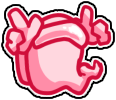
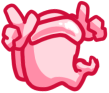
Add Exe Torment & Phantom Spook buttons
also fixes bugs that make it so only the host can actually utilize this, so all clients can haunt/torment/spook without issues

diff --git a/TownOfUs/Events/Neutral/ExecutionerEvents.cs b/TownOfUs/Events/Neutral/ExecutionerEvents.cs
@@ -7,12 +7,11 @@ using MiraAPI.Events.Vanilla.Player;
 using MiraAPI.GameOptions;
 using MiraAPI.Hud;
 using MiraAPI.Modifiers;
-using MiraAPI.Networking;
 using MiraAPI.Roles;
 using MiraAPI.Utilities;
+using TownOfUs.Buttons.Neutral;
 using TownOfUs.Modifiers;
 using TownOfUs.Modifiers.Neutral;
-using TownOfUs.Modules;
 using TownOfUs.Options.Roles.Neutral;
 using TownOfUs.Roles.Neutral;
 using TownOfUs.Utilities;
@@ -25,57 +24,22 @@ public static class ExecutionerEvents
     [RegisterEvent]
     public static void PlayerDeathEventHandler(PlayerDeathEvent @event)
     {
-        CustomRoleUtils.GetActiveRolesOfType<ExecutionerRole>().Do(x => x.CheckTargetDeath(@event.Player));
-
-        if (@event.DeathReason != DeathReason.Exile)
+        if (@event.DeathReason is DeathReason.Exile)
         {
-            return;
-        }
-        
-        if (!@event.Player.TryGetModifier<ExecutionerTargetModifier>(out var exeMod))
-        {
-            return;
-        }
-        
-        var exe = GameData.Instance.GetPlayerById(exeMod.OwnerId).Object;
-        if (exe != null && !exe.HasDied() && exe.Data.Role is ExecutionerRole exeRole)
-        {
-            exeRole.TargetVoted = true;
-        }
-    }
-    [RegisterEvent]
-    public static void AfterMurderEventHandler(AfterMurderEvent @event)
-    {
-        CustomRoleUtils.GetActiveRolesOfType<ExecutionerRole>().Do(x => x.CheckTargetDeath(@event.Target));
-
-        var role = @event.Source.Data.Role;
-        if (@event.Source.HasDied())
-        {
-            role = @event.Source.GetRoleWhenAlive();
-        }
-
-        if (role is ExecutionerRole exe && exe.TargetVoted &&
-            OptionGroupSingleton<ExecutionerOptions>.Instance.ExeWin is ExeWinOptions.Torments)
-        {
-            if (exe.Player.AmOwner)
+            if (!@event.Player.TryGetModifier<ExecutionerTargetModifier>(out var exeMod))
             {
-                PlayerControl.LocalPlayer.RpcPlayerExile();
-                var notif1 = Helpers.CreateAndShowNotification(
-                    $"<b>You have successfully won as the {TownOfUsColors.Executioner.ToTextColor()}Executioner</color>, as your target was exiled!</b>",
-                    Color.white, spr: TouRoleIcons.Executioner.LoadAsset());
-
-                notif1.Text.SetOutlineThickness(0.35f);
-                notif1.transform.localPosition = new Vector3(0f, 1f, -20f);
+                return;
             }
-            else
+
+            var exe = GameData.Instance.GetPlayerById(exeMod.OwnerId).Object;
+            if (exe != null && !exe.HasDied() && exe.Data.Role is ExecutionerRole exeRole)
             {
-                var notif1 = Helpers.CreateAndShowNotification(
-                    $"<b>The {TownOfUsColors.Executioner.ToTextColor()}Executioner</color>, {exe.Player.Data.PlayerName}, has successfully won, as their target was exiled!</b>",
-                    Color.white, spr: TouRoleIcons.Executioner.LoadAsset());
-
-                notif1.Text.SetOutlineThickness(0.35f);
-                notif1.transform.localPosition = new Vector3(0f, 1f, -20f);
+                exeRole.TargetVoted = true;
             }
+        }
+        else
+        {
+            CustomRoleUtils.GetActiveRolesOfType<ExecutionerRole>().Do(x => x.CheckTargetDeath(@event.Player));
         }
     }
 
@@ -104,43 +68,18 @@ public static class ExecutionerEvents
             exe.TargetVoted = true;
             if (exe.Player.AmOwner)
             {
-                if (OptionGroupSingleton<ExecutionerOptions>.Instance.ExeWin is ExeWinOptions.Torments)
-                {
-                    var voters = exe.Voters.ToArray();
-                    Func<PlayerControl, bool> _playerMatch = plr =>
-                        plr != exe.Target && plr != exe.Player && voters.Contains(plr.PlayerId) && !plr.HasDied() &&
-                        !plr.HasModifier<InvulnerabilityModifier>();
+                var notif1 = Helpers.CreateAndShowNotification(
+                    $"<b>You have successfully won as the {TownOfUsColors.Executioner.ToTextColor()}Executioner</color>, as your target was exiled!</b>",
+                    Color.white, spr: TouRoleIcons.Executioner.LoadAsset());
 
-                    var killMenu = CustomPlayerMenu.Create();
-                    killMenu.transform.FindChild("PhoneUI").GetChild(0).GetComponent<SpriteRenderer>().material =
-                        PlayerControl.LocalPlayer.cosmetics.currentBodySprite.BodySprite.material;
-                    killMenu.transform.FindChild("PhoneUI").GetChild(1).GetComponent<SpriteRenderer>().material =
-                        PlayerControl.LocalPlayer.cosmetics.currentBodySprite.BodySprite.material;
-                    killMenu.Begin(
-                        _playerMatch,
-                        plr =>
-                        {
-                            killMenu.ForceClose();
+                notif1.Text.SetOutlineThickness(0.35f);
+                notif1.transform.localPosition = new Vector3(0f, 1f, -20f);
 
-                            if (plr != null)
-                            {
-                                PlayerControl.LocalPlayer.RpcCustomMurder(plr, teleportMurderer: false);
-                            }
-                        });
-                }
-                else
-                {
-                    var notif1 = Helpers.CreateAndShowNotification(
-                        $"<b>You have successfully won as the {TownOfUsColors.Executioner.ToTextColor()}Executioner</color>, as your target was exiled!</b>",
-                        Color.white, spr: TouRoleIcons.Executioner.LoadAsset());
-
-                    notif1.Text.SetOutlineThickness(0.35f);
-                    notif1.transform.localPosition = new Vector3(0f, 1f, -20f);
-                }
-
+                CustomButtonSingleton<ExeTormentButton>.Instance.SetActive(true, exe);
                 PlayerControl.LocalPlayer.RpcPlayerExile();
+                DeathHandlerModifier.RpcUpdateDeathHandler(PlayerControl.LocalPlayer, "Victorious", DeathEventHandlers.CurrentRound, DeathHandlerOverride.SetFalse, lockInfo: DeathHandlerOverride.SetTrue);
             }
-            else if (OptionGroupSingleton<ExecutionerOptions>.Instance.ExeWin is ExeWinOptions.Nothing)
+            else
             {
                 var notif1 = Helpers.CreateAndShowNotification(
                     $"<b>The {TownOfUsColors.Executioner.ToTextColor()}Executioner</color>, {exe.Player.Data.PlayerName}, has successfully won, as their target was exiled!</b>",
@@ -187,6 +126,24 @@ public static class ExecutionerEvents
             if (!PlayerControl.LocalPlayer.IsHost())
             {
                 exeRole.TargetVoted = true;
+            }
+            
+            if (exe.AmOwner && OptionGroupSingleton<ExecutionerOptions>.Instance.ExeWin is ExeWinOptions.Torments)
+            {
+                var allVoters = PlayerControl.AllPlayerControls.ToArray()
+                    .Where(x => exeRole.Voters.Contains(x.PlayerId) && !x.AmOwner);
+                
+                if (!allVoters.Any())
+                {
+                    return;
+                }
+
+                foreach (var player in allVoters)
+                {
+                    player.AddModifier<MisfortuneTargetModifier>();
+                }
+
+                CustomButtonSingleton<ExeTormentButton>.Instance.Show = true;
             }
         }
     }

diff --git a/TownOfUs/Roles/Neutral/PhantomRole.cs b/TownOfUs/Roles/Neutral/PhantomRole.cs
@@ -4,12 +4,12 @@ using Il2CppInterop.Runtime.Attributes;
 using MiraAPI.GameOptions;
 using MiraAPI.Hud;
 using MiraAPI.Modifiers;
-using MiraAPI.Networking;
 using MiraAPI.Patches.Stubs;
 using MiraAPI.Roles;
 using MiraAPI.Utilities;
 using Reactor.Utilities;
-using TownOfUs.Modifiers;
+using TownOfUs.Buttons.Neutral;
+using TownOfUs.Modifiers.Neutral;
 using TownOfUs.Modules.Wiki;
 using TownOfUs.Options.Roles.Neutral;
 using TownOfUs.Patches;
@@ -238,23 +238,21 @@ public sealed class PhantomTouRole(IntPtr cppPtr)
             return;
         }
 
-        Func<PlayerControl, bool> _playerMatch = plr =>
-            !plr.HasDied() && !plr.HasModifier<InvulnerabilityModifier>() && plr != PlayerControl.LocalPlayer;
-        var killMenu = CustomPlayerMenu.Create();
-        killMenu.transform.FindChild("PhoneUI").GetChild(0).GetComponent<SpriteRenderer>().material =
-            PlayerControl.LocalPlayer.cosmetics.currentBodySprite.BodySprite.material;
-        killMenu.transform.FindChild("PhoneUI").GetChild(1).GetComponent<SpriteRenderer>().material =
-            PlayerControl.LocalPlayer.cosmetics.currentBodySprite.BodySprite.material;
-        killMenu.Begin(
-            _playerMatch,
-            plr =>
-            {
-                killMenu.ForceClose();
+        var allVictims = PlayerControl.AllPlayerControls.ToArray()
+            .Where(x => !x.AmOwner);
+                
+        if (!allVictims.Any())
+        {
+            return;
+        }
 
-                if (plr != null)
-                {
-                    PlayerControl.LocalPlayer.RpcCustomMurder(plr, teleportMurderer: false);
-                }
-            });
+        foreach (var player in allVictims)
+        {
+            player.AddModifier<MisfortuneTargetModifier>();
+        }
+
+        var spookButton = CustomButtonSingleton<PhantomSpookButton>.Instance;
+        spookButton.Show = true;
+        spookButton.SetActive(true, this);
     }
 }

diff --git a/TownOfUs/Buttons/Neutral/ExeTormentButton.cs b/TownOfUs/Buttons/Neutral/ExeTormentButton.cs
@@ -10,13 +10,13 @@ using UnityEngine;
 
 namespace TownOfUs.Buttons.Neutral;
 
-public sealed class JesterHauntButton : TownOfUsButton
+public sealed class ExeTormentButton : TownOfUsButton
 {
-    public override string Name => "Haunt";
+    public override string Name => "Torment";
     public override string Keybind => Keybinds.SecondaryAction;
-    public override Color TextOutlineColor => TownOfUsColors.Jester;
+    public override Color TextOutlineColor => TownOfUsColors.Executioner;
     public override float Cooldown => 0.01f;
-    public override LoadableAsset<Sprite> Sprite => TouNeutAssets.JesterHauntSprite;
+    public override LoadableAsset<Sprite> Sprite => TouNeutAssets.ExeTormentSprite;
     public override ButtonLocation Location => ButtonLocation.BottomRight;
     public override bool ShouldPauseInVent => false;
     public override bool UsableInDeath => true;
@@ -43,7 +43,7 @@ public sealed class JesterHauntButton : TownOfUsButton
                 if (plr != null)
                 {
                     PlayerControl.LocalPlayer.RpcCustomMurder(plr, teleportMurderer: false);
-                    DeathHandlerModifier.RpcUpdateDeathHandler(plr, "Haunted", DeathEventHandlers.CurrentRound, DeathHandlerOverride.SetTrue, $"By {PlayerControl.LocalPlayer.Data.PlayerName}", lockInfo: DeathHandlerOverride.SetTrue);
+                    DeathHandlerModifier.RpcUpdateDeathHandler(plr, "Tormented", DeathEventHandlers.CurrentRound, DeathHandlerOverride.SetTrue, $"By {PlayerControl.LocalPlayer.Data.PlayerName}", lockInfo: DeathHandlerOverride.SetTrue);
 
                     foreach (var mod in ModifierUtils.GetActiveModifiers<MisfortuneTargetModifier>())
                     {

diff --git a/TownOfUs/Buttons/Neutral/PhantomSpookButton.cs b/TownOfUs/Buttons/Neutral/PhantomSpookButton.cs
@@ -10,13 +10,13 @@ using UnityEngine;
 
 namespace TownOfUs.Buttons.Neutral;
 
-public sealed class JesterHauntButton : TownOfUsButton
+public sealed class PhantomSpookButton : TownOfUsButton
 {
-    public override string Name => "Haunt";
+    public override string Name => "Spook";
     public override string Keybind => Keybinds.SecondaryAction;
-    public override Color TextOutlineColor => TownOfUsColors.Jester;
+    public override Color TextOutlineColor => TownOfUsColors.Phantom;
     public override float Cooldown => 0.01f;
-    public override LoadableAsset<Sprite> Sprite => TouNeutAssets.JesterHauntSprite;
+    public override LoadableAsset<Sprite> Sprite => TouNeutAssets.PhantomSpookSprite;
     public override ButtonLocation Location => ButtonLocation.BottomRight;
     public override bool ShouldPauseInVent => false;
     public override bool UsableInDeath => true;
@@ -43,7 +43,7 @@ public sealed class JesterHauntButton : TownOfUsButton
                 if (plr != null)
                 {
                     PlayerControl.LocalPlayer.RpcCustomMurder(plr, teleportMurderer: false);
-                    DeathHandlerModifier.RpcUpdateDeathHandler(plr, "Haunted", DeathEventHandlers.CurrentRound, DeathHandlerOverride.SetTrue, $"By {PlayerControl.LocalPlayer.Data.PlayerName}", lockInfo: DeathHandlerOverride.SetTrue);
+                    DeathHandlerModifier.RpcUpdateDeathHandler(plr, "Spooked", DeathEventHandlers.CurrentRound, DeathHandlerOverride.SetTrue, $"By {PlayerControl.LocalPlayer.Data.PlayerName}", lockInfo: DeathHandlerOverride.SetTrue);
 
                     foreach (var mod in ModifierUtils.GetActiveModifiers<MisfortuneTargetModifier>())
                     {

diff --git a/TownOfUs/Events/Neutral/JesterEvents.cs b/TownOfUs/Events/Neutral/JesterEvents.cs
@@ -4,9 +4,11 @@ using MiraAPI.Events.Vanilla.Meeting;
 using MiraAPI.Events.Vanilla.Meeting.Voting;
 using MiraAPI.Events.Vanilla.Player;
 using MiraAPI.GameOptions;
+using MiraAPI.Hud;
 using MiraAPI.Modifiers;
 using MiraAPI.Roles;
 using MiraAPI.Utilities;
+using TownOfUs.Buttons.Neutral;
 using TownOfUs.Modifiers.Neutral;
 using TownOfUs.Modules;
 using TownOfUs.Modules.Localization;
@@ -45,6 +47,7 @@ public static class JesterEvents
 
                 notif1.Text.SetOutlineThickness(0.35f);
                 notif1.transform.localPosition = new Vector3(0f, 1f, -20f);
+                if (OptionGroupSingleton<JesterOptions>.Instance.JestWin is JestWinOptions.Haunts) CustomButtonSingleton<JesterHauntButton>.Instance.SetActive(true, jester);
             }
             else
             {
@@ -111,6 +114,8 @@ public static class JesterEvents
             {
                 player.AddModifier<MisfortuneTargetModifier>();
             }
+            
+            CustomButtonSingleton<JesterHauntButton>.Instance.Show = true;
         }
     }
 }

diff --git a/TownOfUs/Assets/TouNeutAssets.cs b/TownOfUs/Assets/TouNeutAssets.cs
@@ -27,6 +27,8 @@ public static class TouNeutAssets
 
     public static LoadableAsset<Sprite> Observe { get; } = new LoadableResourceAsset($"{ButtonPath}.ObserveButton.png");
 
+    public static LoadableAsset<Sprite> ExeTormentSprite { get; } =
+        new LoadableResourceAsset($"{ButtonPath}.ExeTormentButton.png");
     public static LoadableAsset<Sprite> JesterHauntSprite { get; } =
         new LoadableResourceAsset($"{ButtonPath}.JesterHauntButton.png");
     public static LoadableAsset<Sprite> JesterVentSprite { get; } =
@@ -37,6 +39,9 @@ public static class TouNeutAssets
 
     public static LoadableAsset<Sprite> InquireSprite { get; } =
         new LoadableResourceAsset($"{ButtonPath}.InquireButton.png");
+    
+    public static LoadableAsset<Sprite> PhantomSpookSprite { get; } =
+        new LoadableResourceAsset($"{ButtonPath}.PhantomSpookButton.png");
 
     public static LoadableAsset<Sprite> DouseButtonSprite { get; } =
         new LoadableResourceAsset($"{ButtonPath}.DouseButton.png");

diff --git a/TownOfUs/Roles/Neutral/ExecutionerRole.cs b/TownOfUs/Roles/Neutral/ExecutionerRole.cs
@@ -187,7 +187,7 @@ public sealed class ExecutionerRole(IntPtr cppPtr) : NeutralRole(cppPtr), ITownO
 
     public void CheckTargetDeath(PlayerControl? victim)
     {
-        if (Player.HasDied())
+        if (Player.HasDied() || AboutToWin || TargetVoted)
         {
             return;
         }
